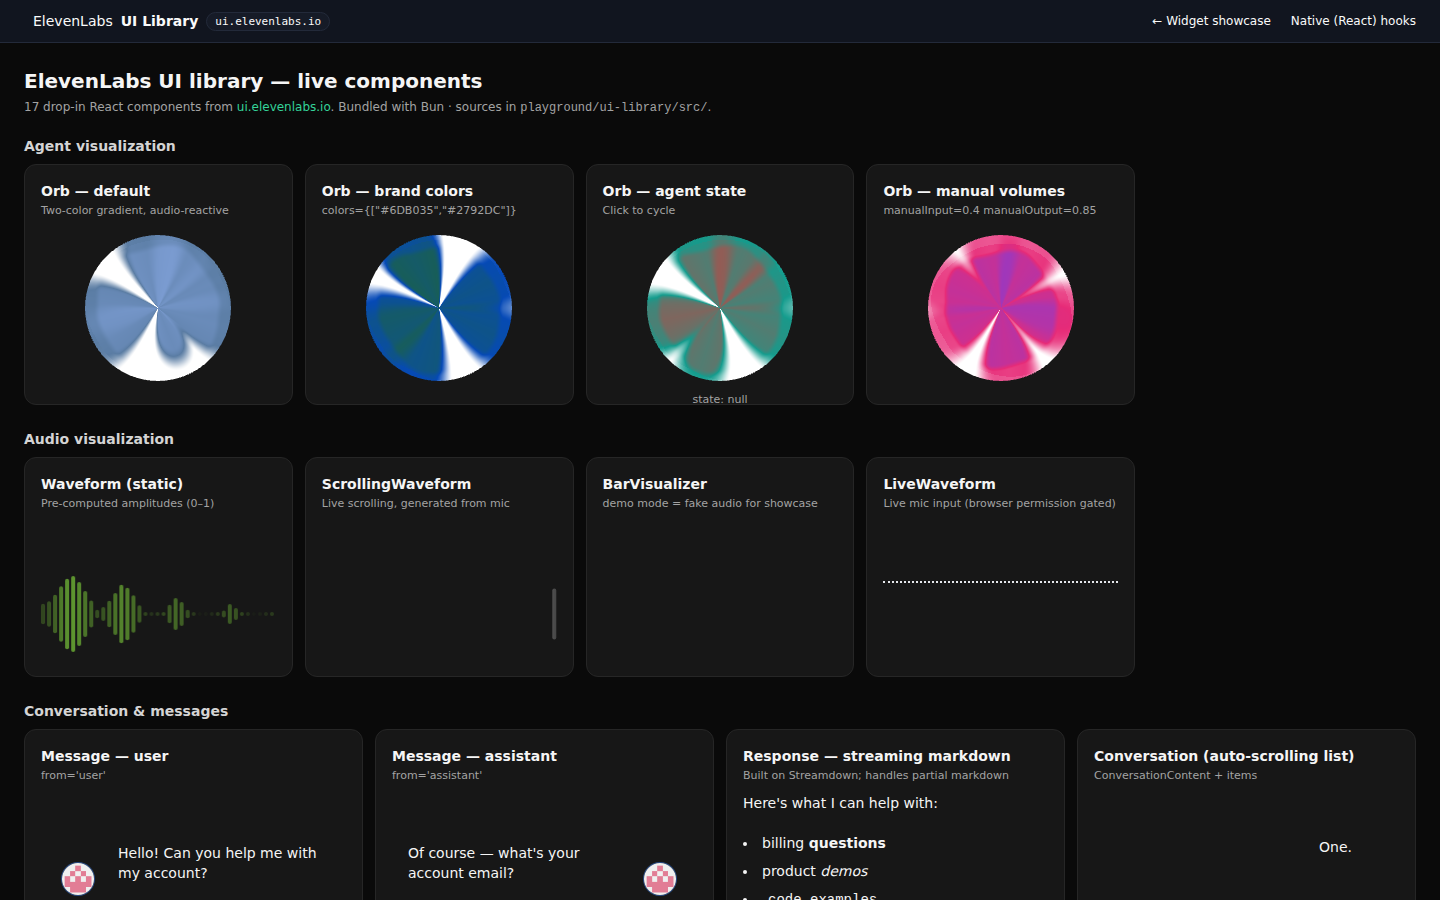
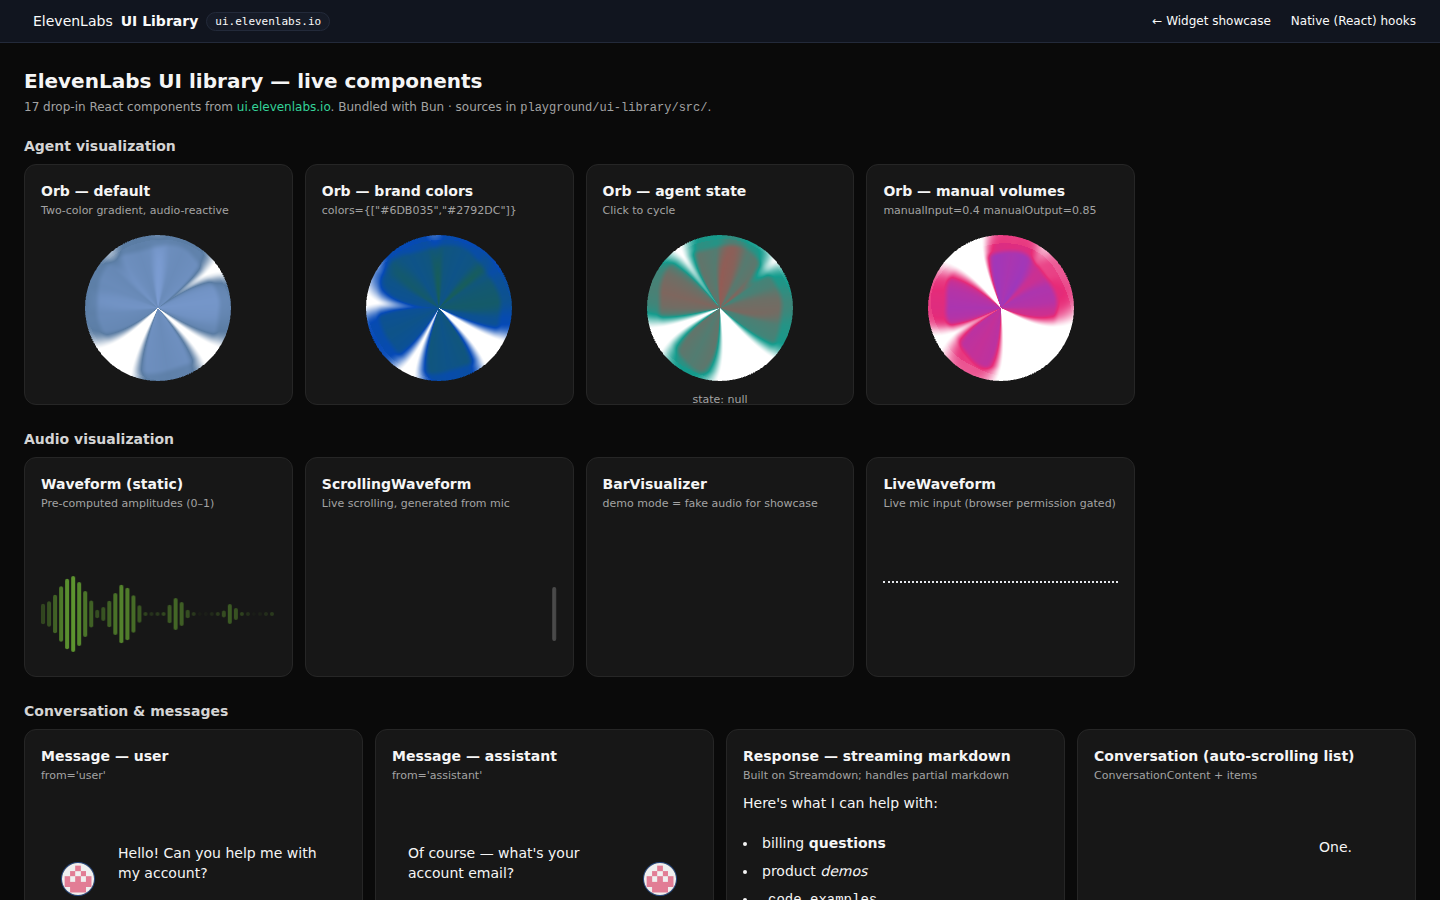
feat(playground): apply calm-it-down UX to /react.html too
Card is now a real React component with collapse-on-click state. Default open:
Provider settings, Session status, Conversation controls. Default collapsed:
Audio-reactive visualizer, Client tools, Scribe, Live event log. Removed all
K1·K17-style matrix codes from card headers.

Z-look-2-react.png shows the result — calm by default, expand what you need.

diff --git a/playground/public/react.js b/playground/public/react.js
@@ -28,9 +28,14 @@ function useEventFeed() {
 const short = (v) => { try { const s = typeof v === "string" ? v : JSON.stringify(v); return s.length > 160 ? s.slice(0, 160) + "…" : s; } catch { return String(v); } };
 
 // ---------- small UI atoms ----------
-const Card = ({ id, title, sec, children }) => html`
-  <section className="card" id=${id}><h2>${title} ${sec && html`<span className="sec">${sec}</span>`}</h2>
-  <div className="card-body">${children}</div></section>`;
+const OPEN_BY_DEFAULT = new Set(["settings", "session", "controls"]);
+function Card({ id, title, children }) {
+  const [open, setOpen] = useState(OPEN_BY_DEFAULT.has(id));
+  return html`<section className=${"card" + (open ? "" : " collapsed")} id=${id}>
+    <h2 onClick=${() => setOpen(!open)}>${title}<span className="expand-chev">›</span></h2>
+    <div className="card-body">${children}</div>
+  </section>`;
+}
 const Badge = ({ tone, children }) => html`<span className=${"badge " + (tone || "")}>${children}</span>`;
 
 // ---------- controls (uses most of useConversationControls) ----------
@@ -237,17 +242,17 @@ function Inner({ agentId, settings }) {
   const combined = useConversation();
   useEffect(() => { emit("useConversation", { status: combined.status, isSpeaking: combined.isSpeaking }); }, [combined.status, combined.isSpeaking]);
   return html`
-    <${Card} id="session" title="Session status" sec="K2·K4·K6">
+    <${Card} id="session" title="Session status">
       <${StatusMode}/>
       <${MuteFeedback}/>
     <//>
-    <${Card} id="controls" title="Conversation controls" sec="K3·K10-K13·H7·H8">
+    <${Card} id="controls" title="Conversation controls">
       <${Controls} agentId=${agentId} settings=${settings}/>
     <//>
-    <${Card} id="viz" title="Audio-reactive visualizer" sec="K14"><${Visualizer}/><//>
-    <${Card} id="tools" title="Client tools (agent-invoked)" sec="K8·K18"><${ClientToolDemo}/><//>
-    <${Card} id="scribe" title="Scribe — useScribe (live STT)" sec="K-bonus"><${ScribePanel}/><//>
-    <${Card} id="events" title="Live event log (all callbacks)" sec="L1-L9"><${EventLog}/><//>`;
+    <${Card} id="viz" title="Audio-reactive visualizer"><${Visualizer}/><//>
+    <${Card} id="tools" title="Client tools (agent-invoked)"><${ClientToolDemo}/><//>
+    <${Card} id="scribe" title="Scribe — useScribe (live STT)"><${ScribePanel}/><//>
+    <${Card} id="events" title="Live event log (all callbacks)"><${EventLog}/><//>`;
 }
 
 // ---------- app shell + provider ----------
@@ -280,7 +285,7 @@ function App() {
 
   const set = (k, v) => { setSettings((s) => ({ ...s, [k]: v })); setVer((n) => n + 1); };
   return html`
-    <${Card} id="settings" title="Provider settings" sec="K1·K17">
+    <${Card} id="settings" title="Provider settings">
       <p className="hint">All hooks below run inside one <code>ConversationProvider</code>. Changing connection settings remounts the provider.</p>
       <div className="grid">
         <div className="ctrl"><label>Mode</label>